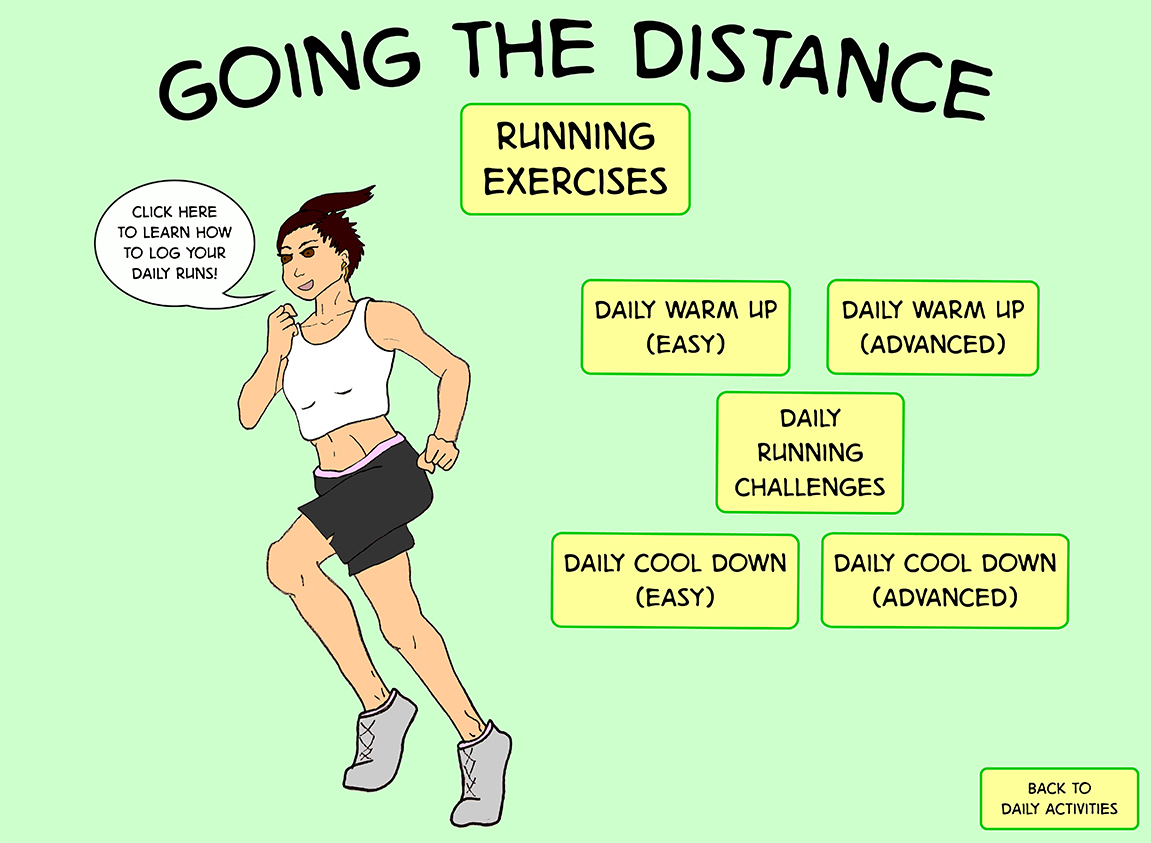
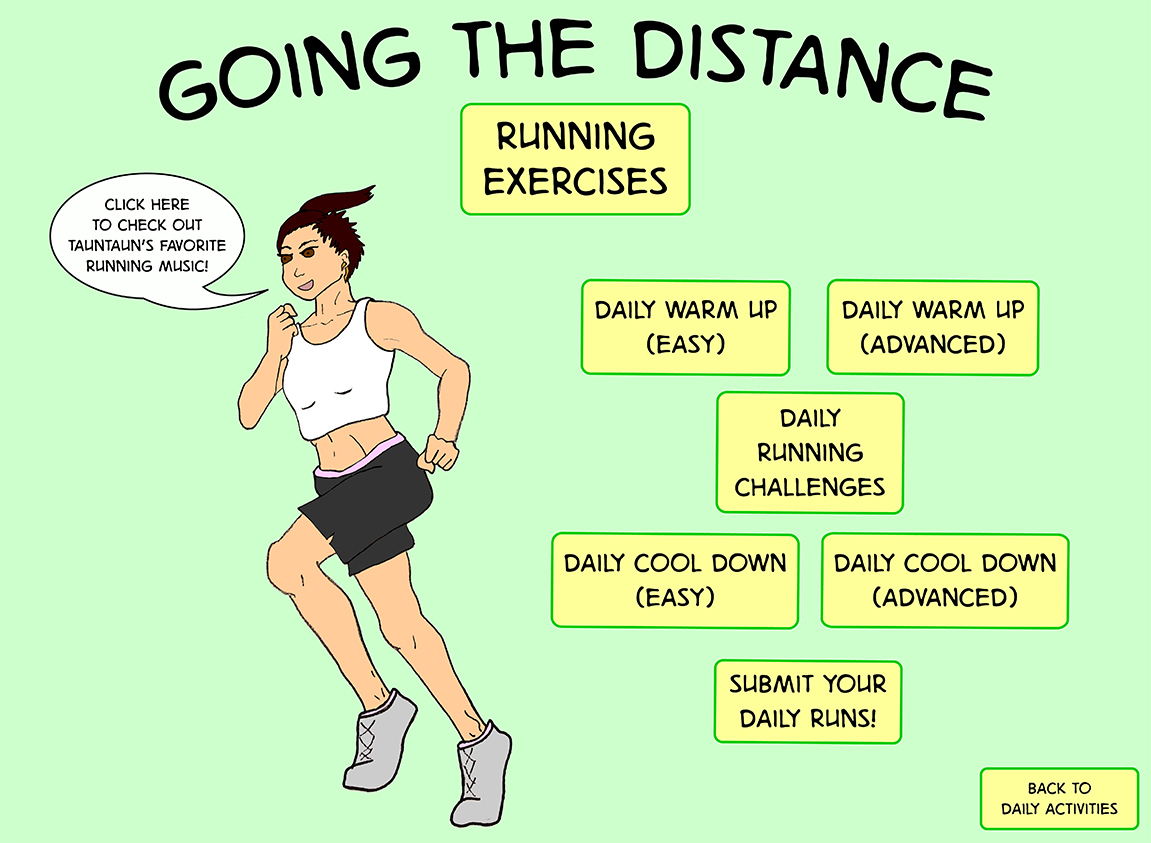
new way to submit runs

Changed region(s): [[0.0304, 0.1851, 0.2433, 0.3701], [0.6082, 0.7711, 0.7906, 0.8944]]

diff --git a/classroom_tauntaun_runningExercises.html b/classroom_tauntaun_runningExercises.html
@@ -19,7 +19,8 @@
     <area target="" alt="Daily Cool Down Easy" title="Daily Cool Down Easy" class="lightwindow" params="lightwindow_width=960,lightwindow_height=540" href="https://dl.dropbox.com/s/viukriq3vwe407a/tauntaun_coolDownEasy.mp4" coords="551,531,802,630" shape="rect">
     <area target="" alt="Daily Cool Down Advanced" title="Daily Cool Down Advanced" class="lightwindow" params="lightwindow_width=960,lightwindow_height=540" href="https://dl.dropbox.com/s/3oqnjq9kpazsa0y/tauntaun_coolDownAdvanced.mp4" coords="825,531,1068,628" shape="rect">
     <area target="" alt="Back to Daily Activities" title="Back to Daily Activities" href="https://aicl2020.github.io/classroom_tauntaun_dailyActivities.html" coords="978,769,1141,828" shape="rect">
-    <area target="" alt="Log Daily Runs" title="Log Daily Runs" href="https://aicl2020.github.io/classroom_tauntaun_submissions.html" coords="151,179,118,193,101,221,92,246,102,281,120,296,152,308,183,304,221,311,249,306,269,291,235,291,250,269,261,245,245,213,214,186,192,179" shape="poly">
+    <area target="" alt="Submit Daily Runs" title="Submit Daily Runs" class="lightwindow" params="lightwindow_width=1000,lightwindow_height=650" href="https://forms.gle/2FDZsA2bHwWBiT8M9" coords="712,662,902,745" shape="rect">
+    <area target="" alt="Running Music" title="Running Music" href="" coords="134,169,98,181,58,205,48,230,54,255,70,274,89,288,111,294,143,300,166,310,194,311,220,306,239,300,271,286,215,291,207,288,225,272,241,252,241,230,234,199,195,180" shape="poly">
     <area target="" alt="Running Tauntaun" title="Running Tauntaun" href="" coords="298,212,279,227,277,244,276,258,279,273,285,290,295,293,288,298,271,309,268,313,265,330,262,347,239,387,238,426,253,430,279,394,290,407,295,430,301,440,313,447,313,460,311,478,309,492,295,499,286,525,269,539,262,564,272,586,284,598,308,631,331,662,356,702,355,725,344,769,343,785,368,792,397,782,402,760,412,730,420,709,426,683,451,727,462,768,461,796,448,814,460,828,480,827,503,816,508,784,513,731,493,710,460,677,433,626,421,605,418,546,437,499,455,462,463,430,470,370,470,362,425,326,413,309,374,290,351,277,367,251,367,229,353,216,376,188,341,188,310,193,298,199" shape="poly">
 </map>
 </body>
